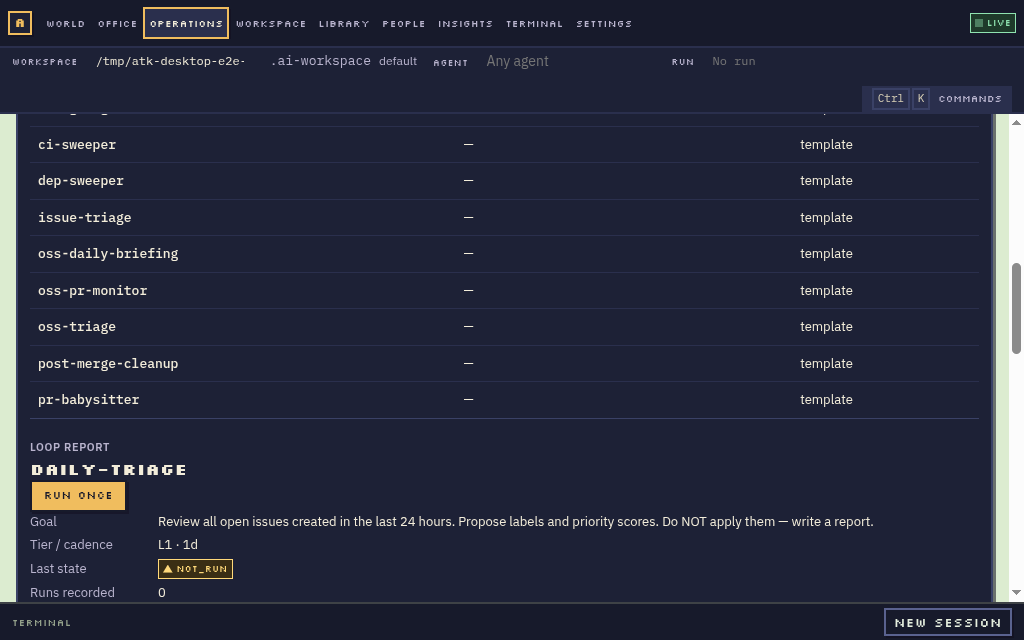
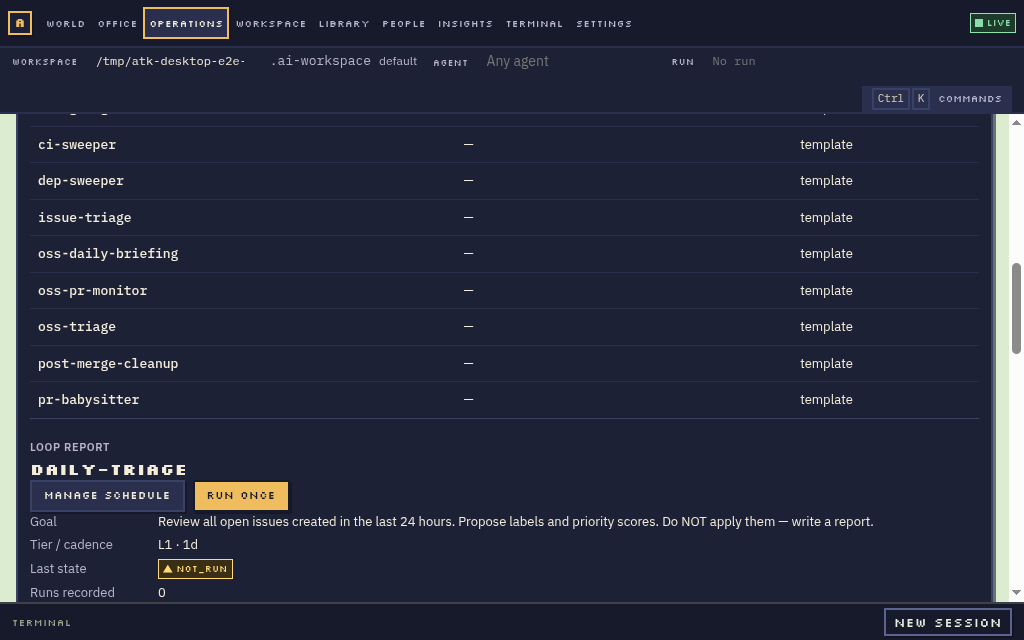
feat(desktop): manage loop schedules from Operations

Changed region(s): [[0.0312, 0.75, 0.2812, 0.8125]]

diff --git a/apps/desktop/src/features/operations/Loops.tsx b/apps/desktop/src/features/operations/Loops.tsx
@@ -1,5 +1,5 @@
 import { useEffect, useMemo, useState } from 'react';
-import { useSubQuery } from '../../data/commands';
+import { useSubMutation, useSubQuery } from '../../data/commands';
 import {
   useInitializeLoop,
   useLoopAudit,
@@ -9,7 +9,7 @@ import {
   useLoops,
   useRunLoop,
 } from '../../data/loops';
-import type { LoopInfo } from '../../lib/api';
+import { envelopeText, type CommandEnvelope, type LoopInfo } from '../../lib/api';
 import { jobCommandLine } from '../../lib/format';
 import { useSessionContext } from '../../shell/useSessionContext';
 import {
@@ -24,6 +24,7 @@ import {
   Mono,
   Panel,
   QueryView,
+  Report,
   Select,
   StatusBadge,
   Table,
@@ -57,6 +58,7 @@ export function LoopsPanel({
   ).filter((entry) => !installed.some((loop) => loop.name === entry.name));
   const selectedLoop = installed.find((loop) => loop.name === selectedName);
   const selectedTemplate = templateEntries.find((entry) => entry.name === selectedName);
+  const [scheduleName, setScheduleName] = useState<string | null>(null);
 
   return (
     <>
@@ -87,7 +89,13 @@ export function LoopsPanel({
             onRetry={() => void templates.refetch()}
           />
         ) : null}
-        {selectedLoop ? <LoopDetail loop={selectedLoop} onRun={() => onRun(selectedLoop.name)} /> : null}
+        {selectedLoop ? (
+          <LoopDetail
+            loop={selectedLoop}
+            onRun={() => onRun(selectedLoop.name)}
+            onSchedule={() => setScheduleName(selectedLoop.name)}
+          />
+        ) : null}
         {selectedTemplate ? <TemplateDetail entry={selectedTemplate} onInitialized={onSelect} /> : null}
       </Panel>
       <RunLoopDialog
@@ -96,6 +104,11 @@ export function LoopsPanel({
         initialName={selectedName}
         onClose={onCloseDialog}
         onStarted={onStarted}
+      />
+      <ManageLoopScheduleDialog
+        open={scheduleName !== null}
+        loop={installed.find((loop) => loop.name === scheduleName) ?? null}
+        onClose={() => setScheduleName(null)}
       />
     </>
   );
@@ -173,7 +186,7 @@ function TemplateDetail({ entry, onInitialized }: { entry: LoopListEntry; onInit
   );
 }
 
-function LoopDetail({ loop, onRun }: { loop: LoopInfo; onRun: () => void }) {
+function LoopDetail({ loop, onRun, onSchedule }: { loop: LoopInfo; onRun: () => void; onSchedule: () => void }) {
   const status = useLoopStatus(loop.name);
   const history = useLoopHistory(loop.name);
   const audit = useLoopAudit(loop.name);
@@ -185,9 +198,12 @@ function LoopDetail({ loop, onRun }: { loop: LoopInfo; onRun: () => void }) {
           <p className={styles.previewLabel}>Loop report</p>
           <h3>{loop.name}</h3>
         </div>
-        <Button variant="primary" onClick={onRun}>
-          Run once
-        </Button>
+        <ButtonRow>
+          <Button onClick={onSchedule}>Manage schedule</Button>
+          <Button variant="primary" onClick={onRun}>
+            Run once
+          </Button>
+        </ButtonRow>
       </div>
       <QueryView query={status} loading="Reading loop definition and budget" errorTitle="Could not read loop status">
         {(report) => (
@@ -267,6 +283,160 @@ function LoopDetail({ loop, onRun }: { loop: LoopInfo; onRun: () => void }) {
         )}
       </QueryView>
     </div>
+  );
+}
+
+function ManageLoopScheduleDialog({
+  open,
+  loop,
+  onClose,
+}: {
+  open: boolean;
+  loop: LoopInfo | null;
+  onClose: () => void;
+}) {
+  const schedules = useSubQuery('loops', 'schedule', { list_mode: true }, { enabled: open });
+  const action = useSubMutation('loops', 'schedule');
+  const receipt = useActionReceipt('Loop schedule updated');
+  const [reviewed, setReviewed] = useState<('install' | 'remove') | null>(null);
+  const [plan, setPlan] = useState<CommandEnvelope | null>(null);
+
+  useEffect(() => {
+    if (!open) {
+      setReviewed(null);
+      setPlan(null);
+    }
+  }, [open]);
+
+  const preview = (kind: 'install' | 'remove') => {
+    if (!loop) return;
+    setReviewed(null);
+    setPlan(null);
+    action.mutate(
+      { name: loop.name, dry_run: true, remove_mode: kind === 'remove' },
+      {
+        onSuccess: (result) => {
+          setPlan(result);
+          setReviewed(kind);
+        },
+      },
+    );
+  };
+
+  const apply = () => {
+    if (!loop || !reviewed) return;
+    action.mutate(
+      { name: loop.name, remove_mode: reviewed === 'remove' },
+      {
+        onSuccess: (result) => {
+          receipt.onSuccess(result);
+          setPlan(null);
+          setReviewed(null);
+        },
+      },
+    );
+  };
+
+  return (
+    <Dialog
+      open={open && loop !== null}
+      onClose={onClose}
+      title={`Schedule ${loop?.name ?? 'loop'}`}
+      description="Schedules run this loop automatically using the cadence in its definition. Review the real scheduler changes before applying them."
+      footer={
+        <>
+          <Button variant="ghost" onClick={onClose}>
+            Close
+          </Button>
+          {reviewed ? (
+            <Button
+              variant={reviewed === 'remove' ? 'danger' : 'primary'}
+              onClick={apply}
+              busy={action.isPending}
+              busyLabel="Applying…"
+            >
+              {reviewed === 'remove' ? 'Disable schedule' : 'Install schedule'}
+            </Button>
+          ) : null}
+        </>
+      }
+    >
+      {loop ? (
+        <>
+          <KeyValue
+            items={[
+              { label: 'Loop', value: <Mono>{loop.name}</Mono> },
+              { label: 'Cadence', value: loop.cadence },
+              { label: 'Scheduler', value: 'Current user · systemd or launchd' },
+              { label: 'Automatic run', value: loop.goal },
+            ]}
+          />
+          <section className={styles.subsection} aria-label="Installed loop schedules">
+            <p className={styles.previewLabel}>Schedules on this machine</p>
+            <QueryView query={schedules} loading="Checking installed schedules" errorTitle="Could not check schedules">
+              {(result) => <Report text={envelopeText(result)} label="Installed schedules from the local scheduler" />}
+            </QueryView>
+          </section>
+          <ButtonRow>
+            <Button onClick={() => preview('install')} busy={action.isPending}>
+              Review install
+            </Button>
+            <Button onClick={() => preview('remove')} busy={action.isPending}>
+              Review disable
+            </Button>
+          </ButtonRow>
+          {reviewed && plan ? (
+            <section className={styles.subsection} aria-label="Schedule change preview">
+              <p className={styles.previewLabel}>{reviewed === 'remove' ? 'Disable preview' : 'Install preview'}</p>
+              <KeyValue
+                items={[
+                  ...(plan.data['service_path']
+                    ? [
+                        {
+                          label: reviewed === 'remove' ? 'Remove service' : 'Create service',
+                          value: <Mono>{plan.data['service_path']}</Mono>,
+                        },
+                      ]
+                    : []),
+                  ...(plan.data['timer_path']
+                    ? [
+                        {
+                          label: reviewed === 'remove' ? 'Remove timer' : 'Create timer',
+                          value: <Mono>{plan.data['timer_path']}</Mono>,
+                        },
+                      ]
+                    : []),
+                  ...(plan.data['plist_path']
+                    ? [
+                        {
+                          label: reviewed === 'remove' ? 'Remove launch agent' : 'Create launch agent',
+                          value: <Mono>{plan.data['plist_path']}</Mono>,
+                        },
+                      ]
+                    : []),
+                  ...(plan.data['on_calendar']
+                    ? [{ label: 'Runs on', value: <Mono>{plan.data['on_calendar']}</Mono> }]
+                    : []),
+                  ...(plan.data['interval_seconds']
+                    ? [{ label: 'Run interval', value: `${plan.data['interval_seconds']} seconds` }]
+                    : []),
+                ]}
+              />
+              <details className={styles.scheduleDetails}>
+                <summary>View generated scheduler details</summary>
+                <Report text={envelopeText(plan)} label="Exact scheduler files and commands" />
+              </details>
+              <p>
+                {reviewed === 'remove'
+                  ? 'This removes only this loop’s user-level timer or launch agent. The loop definition and past reports stay in the workspace.'
+                  : 'Applying writes a user-level service and timer (Linux) or launch agent (macOS), then asks the OS scheduler to enable it.'}
+              </p>
+            </section>
+          ) : null}
+          {action.error ? <ErrorState title="The schedule was not changed" error={action.error} /> : null}
+        </>
+      ) : null}
+    </Dialog>
   );
 }
 

diff --git a/apps/desktop/e2e/electron/loops.spec.ts b/apps/desktop/e2e/electron/loops.spec.ts
@@ -1,12 +1,25 @@
 import path from 'node:path';
+import fs from 'node:fs';
+import os from 'node:os';
 import { expect, test } from '@playwright/test';
 import { openDesktop, waitForBackend } from './fixtures';
 
 const CAPTURE_DIR = path.resolve(__dirname, '../../../../docs/desktop/assets/electron/loops');
 
 test('adds a loop from the Library template, runs it, and reads its typed report', async () => {
-  const desktop = await openDesktop();
+  test.skip(process.platform !== 'linux', 'The isolated scheduler lifecycle uses Linux systemd units.');
+  const fakeBin = fs.mkdtempSync(path.join(os.tmpdir(), 'atk-fake-systemctl-'));
+  const fakeSystemctl = path.join(fakeBin, 'systemctl');
+  fs.writeFileSync(
+    fakeSystemctl,
+    '#!/bin/sh\nif [ -f "$HOME/fail-systemctl" ]; then echo "scheduler fixture failure" >&2; exit 1; fi\nexit 0\n',
+    { mode: 0o755 },
+  );
+  const previousPath = process.env.PATH;
+  process.env.PATH = `${fakeBin}${path.delimiter}${previousPath ?? ''}`;
+  let desktop: Awaited<ReturnType<typeof openDesktop>> | undefined;
   try {
+    desktop = await openDesktop();
     const { page } = desktop;
     await waitForBackend(page);
     await page.getByRole('navigation', { name: 'Destinations' }).getByRole('link', { name: 'Operations' }).click();
@@ -24,9 +37,41 @@ test('adds a loop from the Library template, runs it, and reads its typed report
     await expect(loops).toContainText('Goal');
     await expect(loops).toContainText('Token budget');
     await expect(loops.getByRole('region', { name: 'daily-triage run history' })).toContainText('No run records yet.');
+    await loops.getByRole('button', { name: 'Manage schedule' }).click();
+    const schedule = page.getByRole('dialog', { name: 'Schedule daily-triage' });
+    await expect(schedule).toContainText('No scheduled loops found.');
+    await schedule.getByRole('button', { name: 'Review install' }).click();
+    await expect(schedule.getByRole('region', { name: 'Schedule change preview' })).toContainText('schedule dry-run');
+    await expect(schedule.getByRole('region', { name: 'Schedule change preview' })).toContainText(
+      'agent-toolkit-loop-daily-triage.service',
+    );
     if (process.env.ATK_CAPTURE === '1') {
-      const receiptDismiss = page.getByRole('button', { name: 'Dismiss' });
-      if (await receiptDismiss.isVisible()) await receiptDismiss.click();
+      await page.evaluate(() => document.fonts.ready.then(() => undefined));
+      await page.setViewportSize({ width: 1024, height: 640 });
+      await page.screenshot({ path: path.join(CAPTURE_DIR, 'loop-schedule-preview-compact.png') });
+      await page.setViewportSize({ width: 1920, height: 1080 });
+      await page.screenshot({ path: path.join(CAPTURE_DIR, 'loop-schedule-preview-large.png') });
+    }
+    await schedule.getByText('View generated scheduler details').click();
+    await expect(schedule).toContainText('Would enable: systemctl --user enable');
+    fs.writeFileSync(path.join(desktop.home, 'fail-systemctl'), 'fail');
+    await schedule.getByRole('button', { name: 'Install schedule' }).click();
+    await expect(schedule).toContainText('Enable failed');
+    fs.rmSync(path.join(desktop.home, 'fail-systemctl'), { force: true });
+    await schedule.getByRole('button', { name: 'Install schedule' }).click();
+    await expect(schedule).toContainText('Scheduled loops:');
+    await expect(schedule).toContainText('daily-triage');
+    await schedule.getByRole('button', { name: 'Review disable' }).click();
+    await expect(schedule.getByRole('region', { name: 'Schedule change preview' })).toContainText(
+      'agent-toolkit-loop-daily-triage.service',
+    );
+    await schedule.getByRole('button', { name: 'Disable schedule' }).click();
+    await expect(schedule).toContainText('No scheduled loops found.');
+    await schedule.getByRole('button', { name: 'Close' }).click();
+
+    if (process.env.ATK_CAPTURE === '1') {
+      const receipts = page.locator('button[aria-label^="Dismiss:"]');
+      while ((await receipts.count()) > 0) await receipts.first().click();
       await page.evaluate(() => document.fonts.ready.then(() => undefined));
       await page.setViewportSize({ width: 1024, height: 640 });
       await loops.getByRole('heading', { name: 'daily-triage' }).scrollIntoViewIfNeeded();
@@ -47,9 +92,13 @@ test('adds a loop from the Library template, runs it, and reads its typed report
     await expect(loops.getByRole('region', { name: 'daily-triage audit' })).toContainText('Completed');
     await expect(loops.getByRole('region', { name: 'daily-triage cost report' })).toContainText('Unavailable');
     if (process.env.ATK_CAPTURE === '1') {
+      const receipts = page.locator('button[aria-label^="Dismiss:"]');
+      while ((await receipts.count()) > 0) await receipts.first().click();
       await page.screenshot({ path: path.join(CAPTURE_DIR, 'loop-report-after-run.png') });
     }
   } finally {
-    await desktop.close();
+    process.env.PATH = previousPath;
+    await desktop?.close();
+    fs.rmSync(fakeBin, { recursive: true, force: true });
   }
 });

diff --git a/apps/desktop/src/features/operations/operations.module.css b/apps/desktop/src/features/operations/operations.module.css
@@ -59,6 +59,27 @@
   color: var(--text-muted);
 }
 
+.scheduleDetails {
+  margin-top: var(--space-3);
+}
+
+.scheduleDetails summary {
+  min-height: var(--target-min);
+  width: fit-content;
+  display: flex;
+  align-items: center;
+  color: var(--text-primary);
+  cursor: pointer;
+  font-size: var(--text-sm);
+  text-decoration: underline;
+  text-underline-offset: 0.2em;
+}
+
+.scheduleDetails[open] > :global(pre) {
+  margin-top: var(--space-2);
+  max-height: 12rem;
+}
+
 .subsection {
   margin-top: var(--space-5);
 }

diff --git a/CHANGELOG.md b/CHANGELOG.md
@@ -12,6 +12,10 @@ and this project adheres to [Semantic Versioning](https://semver.org/spec/v2.0.0
 
 ### Added
 
+- Operations can inspect existing loop schedules, review the exact service/timer
+  paths and cadence before installing or disabling one, expand the generated
+  scheduler details when needed, and recover clearly when the OS scheduler
+  rejects an install.
 - Desktop's command palette adds direct Person actions: inspect a saved profile,
   start an offline collaborator through the normal review dialog, or open the
   real terminal for a live Person-bound PTY.
